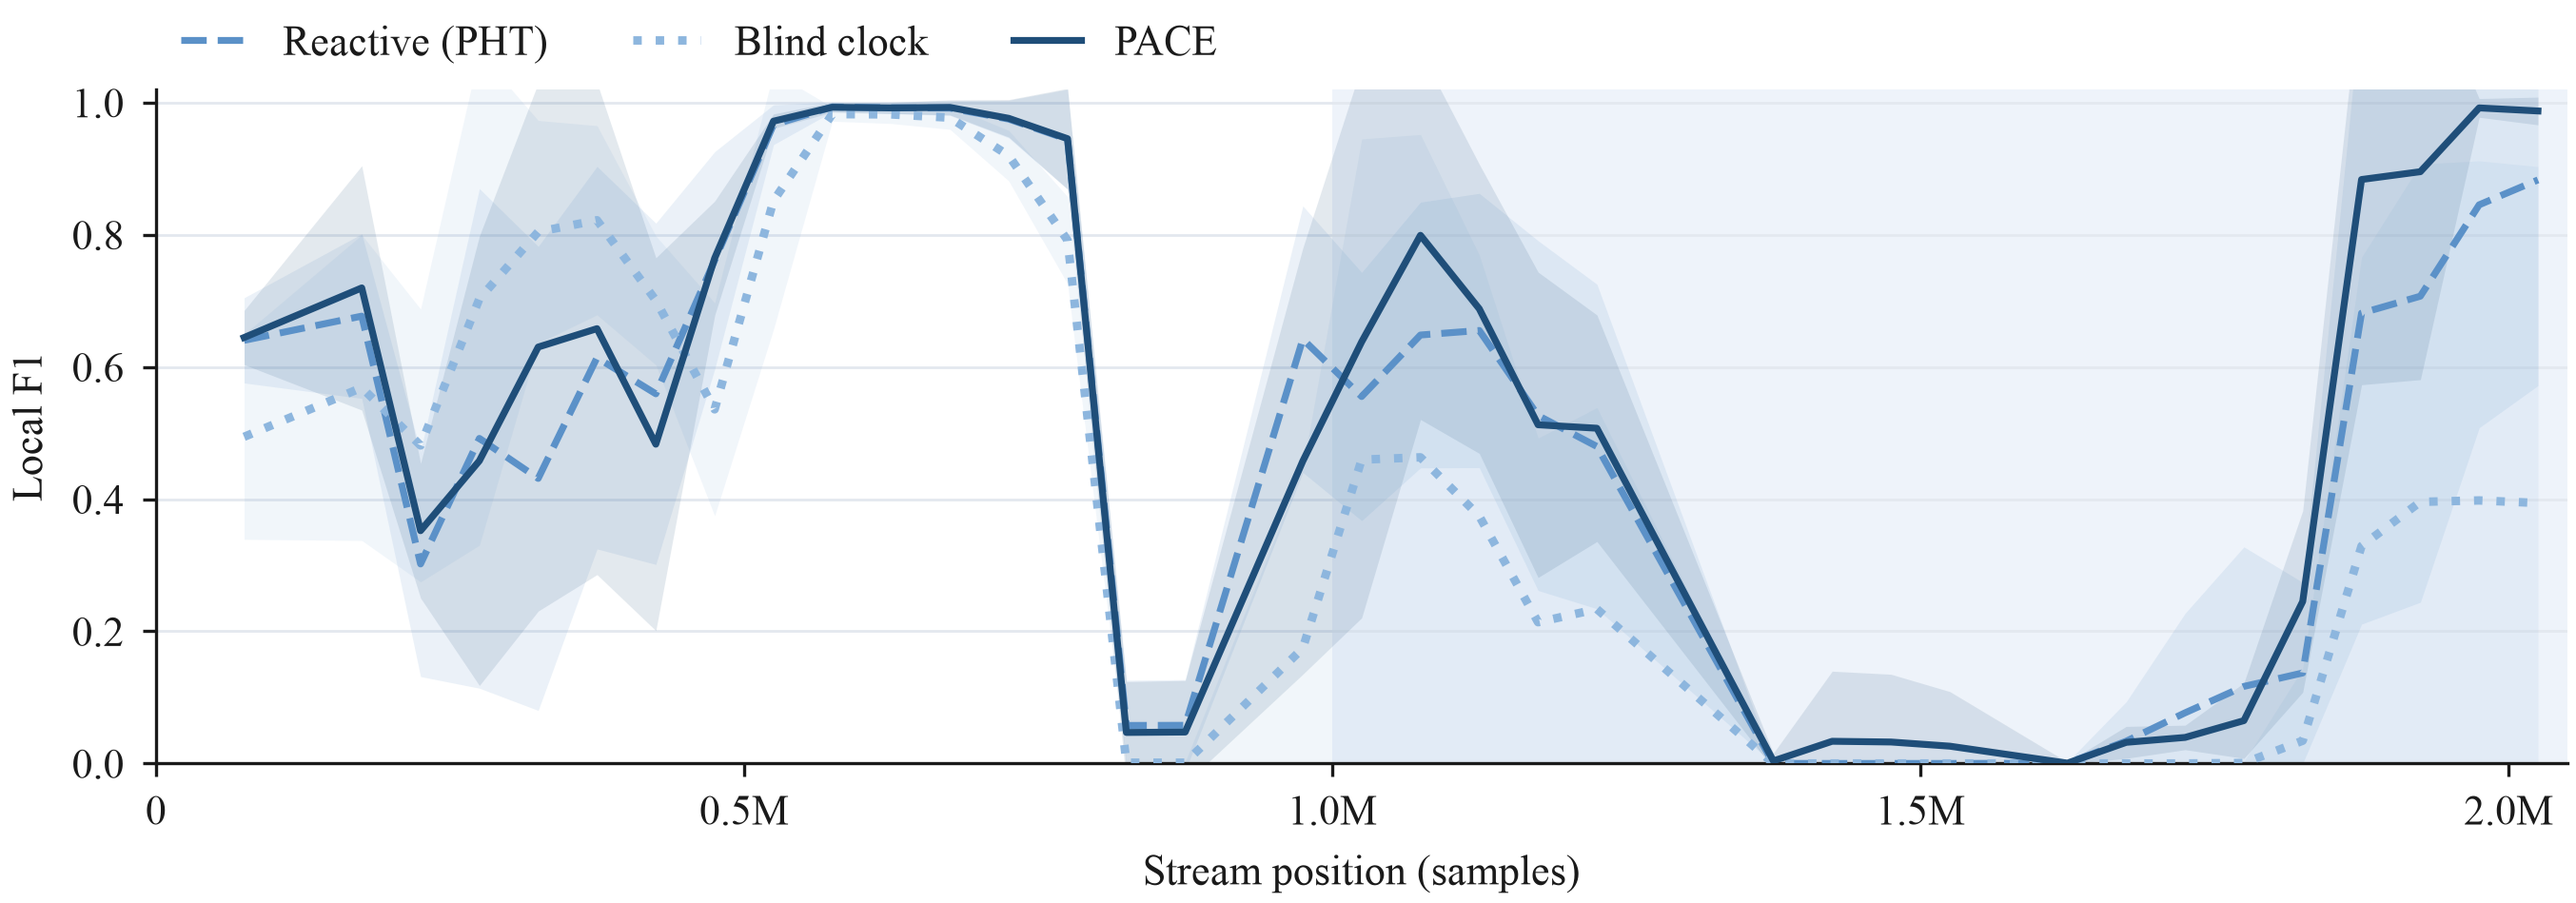
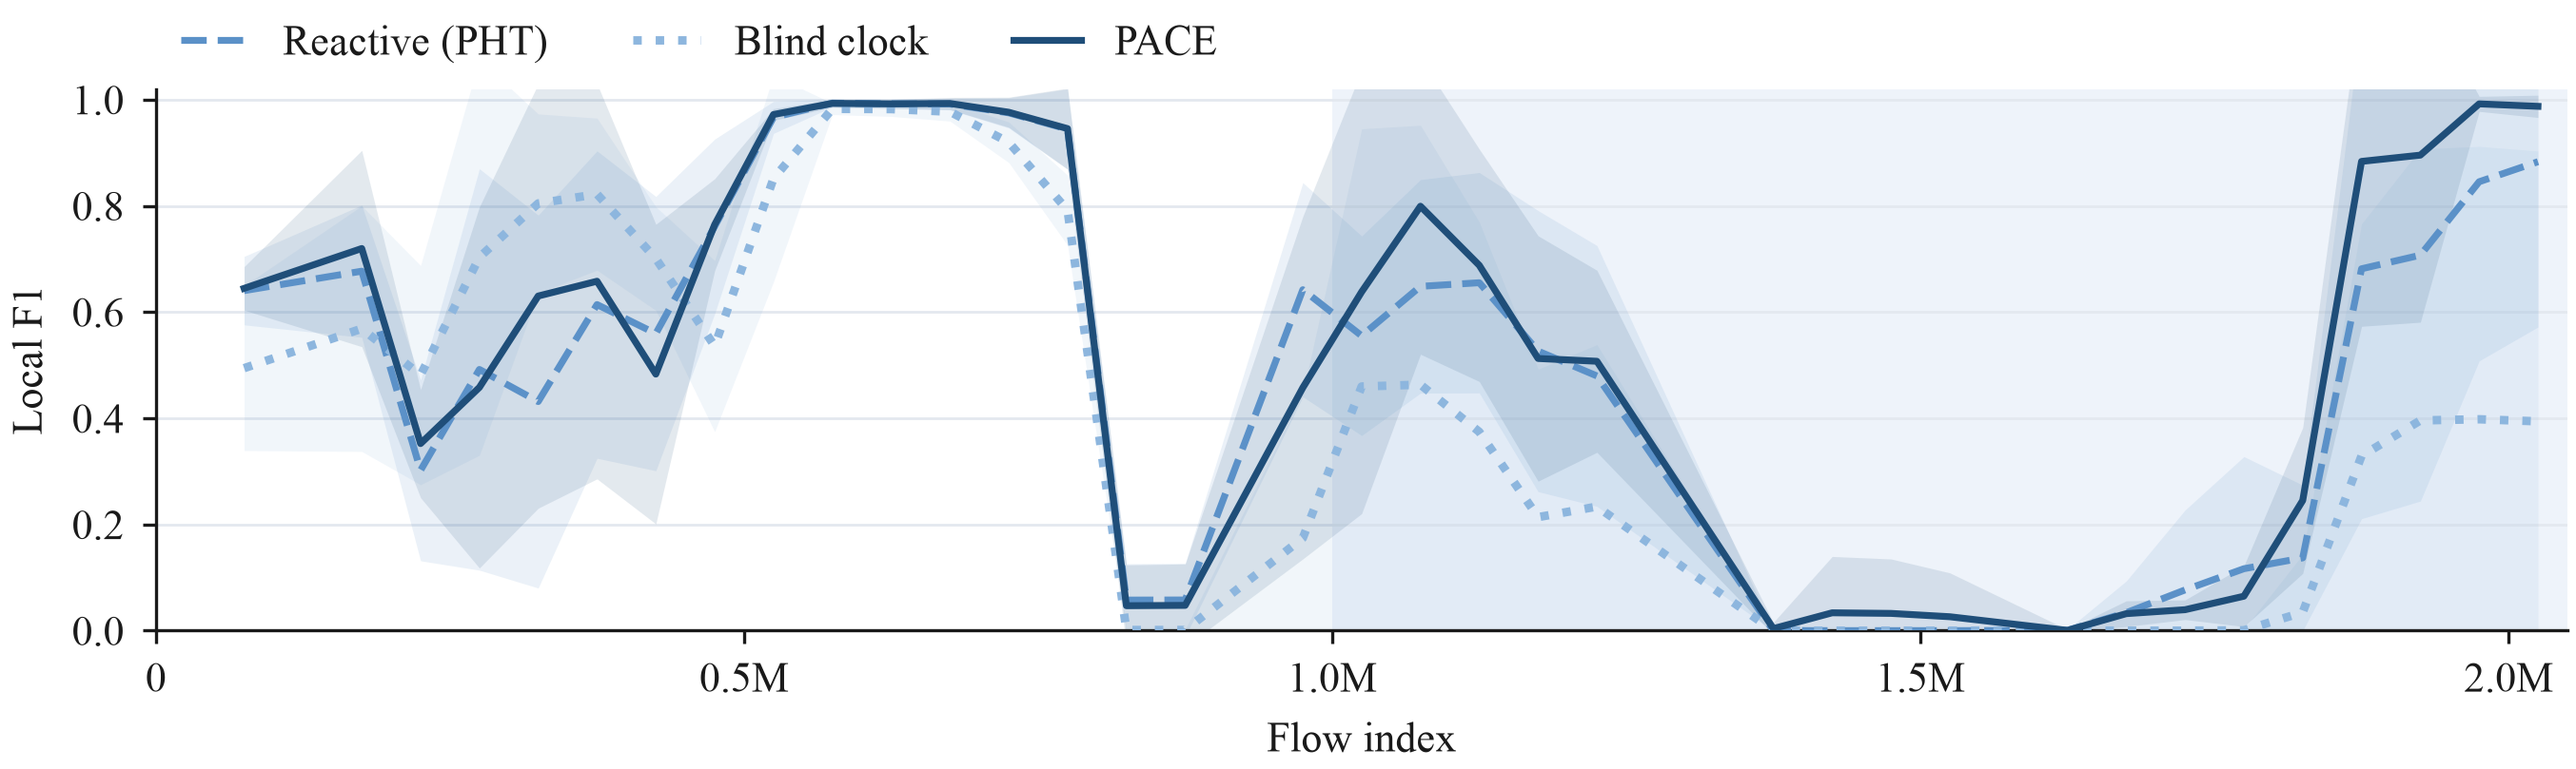
figures: draw the F1 trajectory shorter for the paper body, x axis as flow index

diff --git a/scripts/paper_figures.py b/scripts/paper_figures.py
@@ -334,7 +334,7 @@ def _mean_n_drifts(dataset: str, phase: str,
 # Figure 1 — local F1 across the stream
 # --------------------------------------------------------------------------- #
 def fig1_trajectory(labels: bool = False) -> None:
-    fig, ax = plt.subplots(figsize=(FULL, 2.3))
+    fig, ax = plt.subplots(figsize=(FULL, 1.85))
     ax.axvspan(1.0e6, 2.05e6, color=PALE, lw=0, zorder=0)
     for phase in ["B", "C_freq", "C_early"]:
         idx, mean, std = load_trajectory(phase)
@@ -346,7 +346,7 @@ def fig1_trajectory(labels: bool = False) -> None:
             good = np.isfinite(mean)
             ax.annotate(f"{mean[good][-1]:.2f}", (idx[good][-1], mean[good][-1]),
                         xytext=(4, 0), textcoords="offset points", va="center", fontsize=6.5)
-    ax.set_xlabel("Stream position (samples)")
+    ax.set_xlabel("Flow index")
     ax.set_ylabel("Local F1")
     ax.set_ylim(0, 1.02)
     ax.set_xlim(0, 2.05e6)
